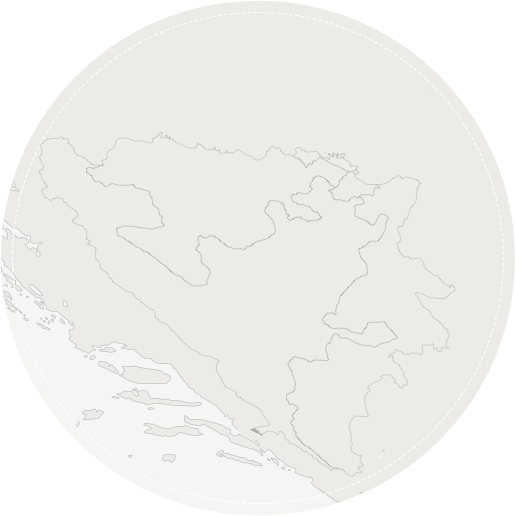
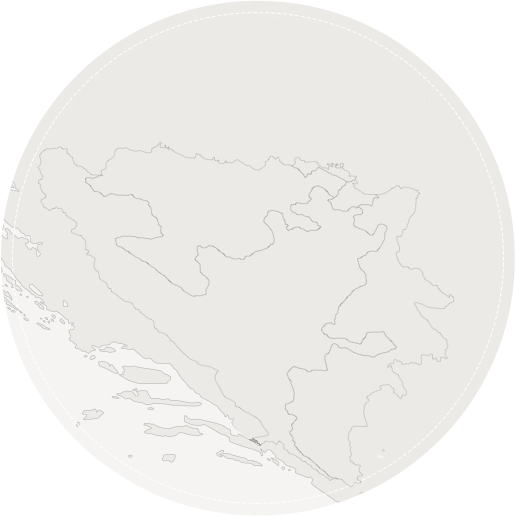
tweak map

diff --git a/css/style.css b/css/style.css
@@ -281,7 +281,7 @@ span.st_blogger_large > span > span.stLarge:hover {
 #map:before {
 	content:url('../img/map-bg.png');
 	position:absolute;
-	top:-131px;
+	top:-142px;
 	left:-17px;
 	z-index:-1;
 	opacity:0.5;
